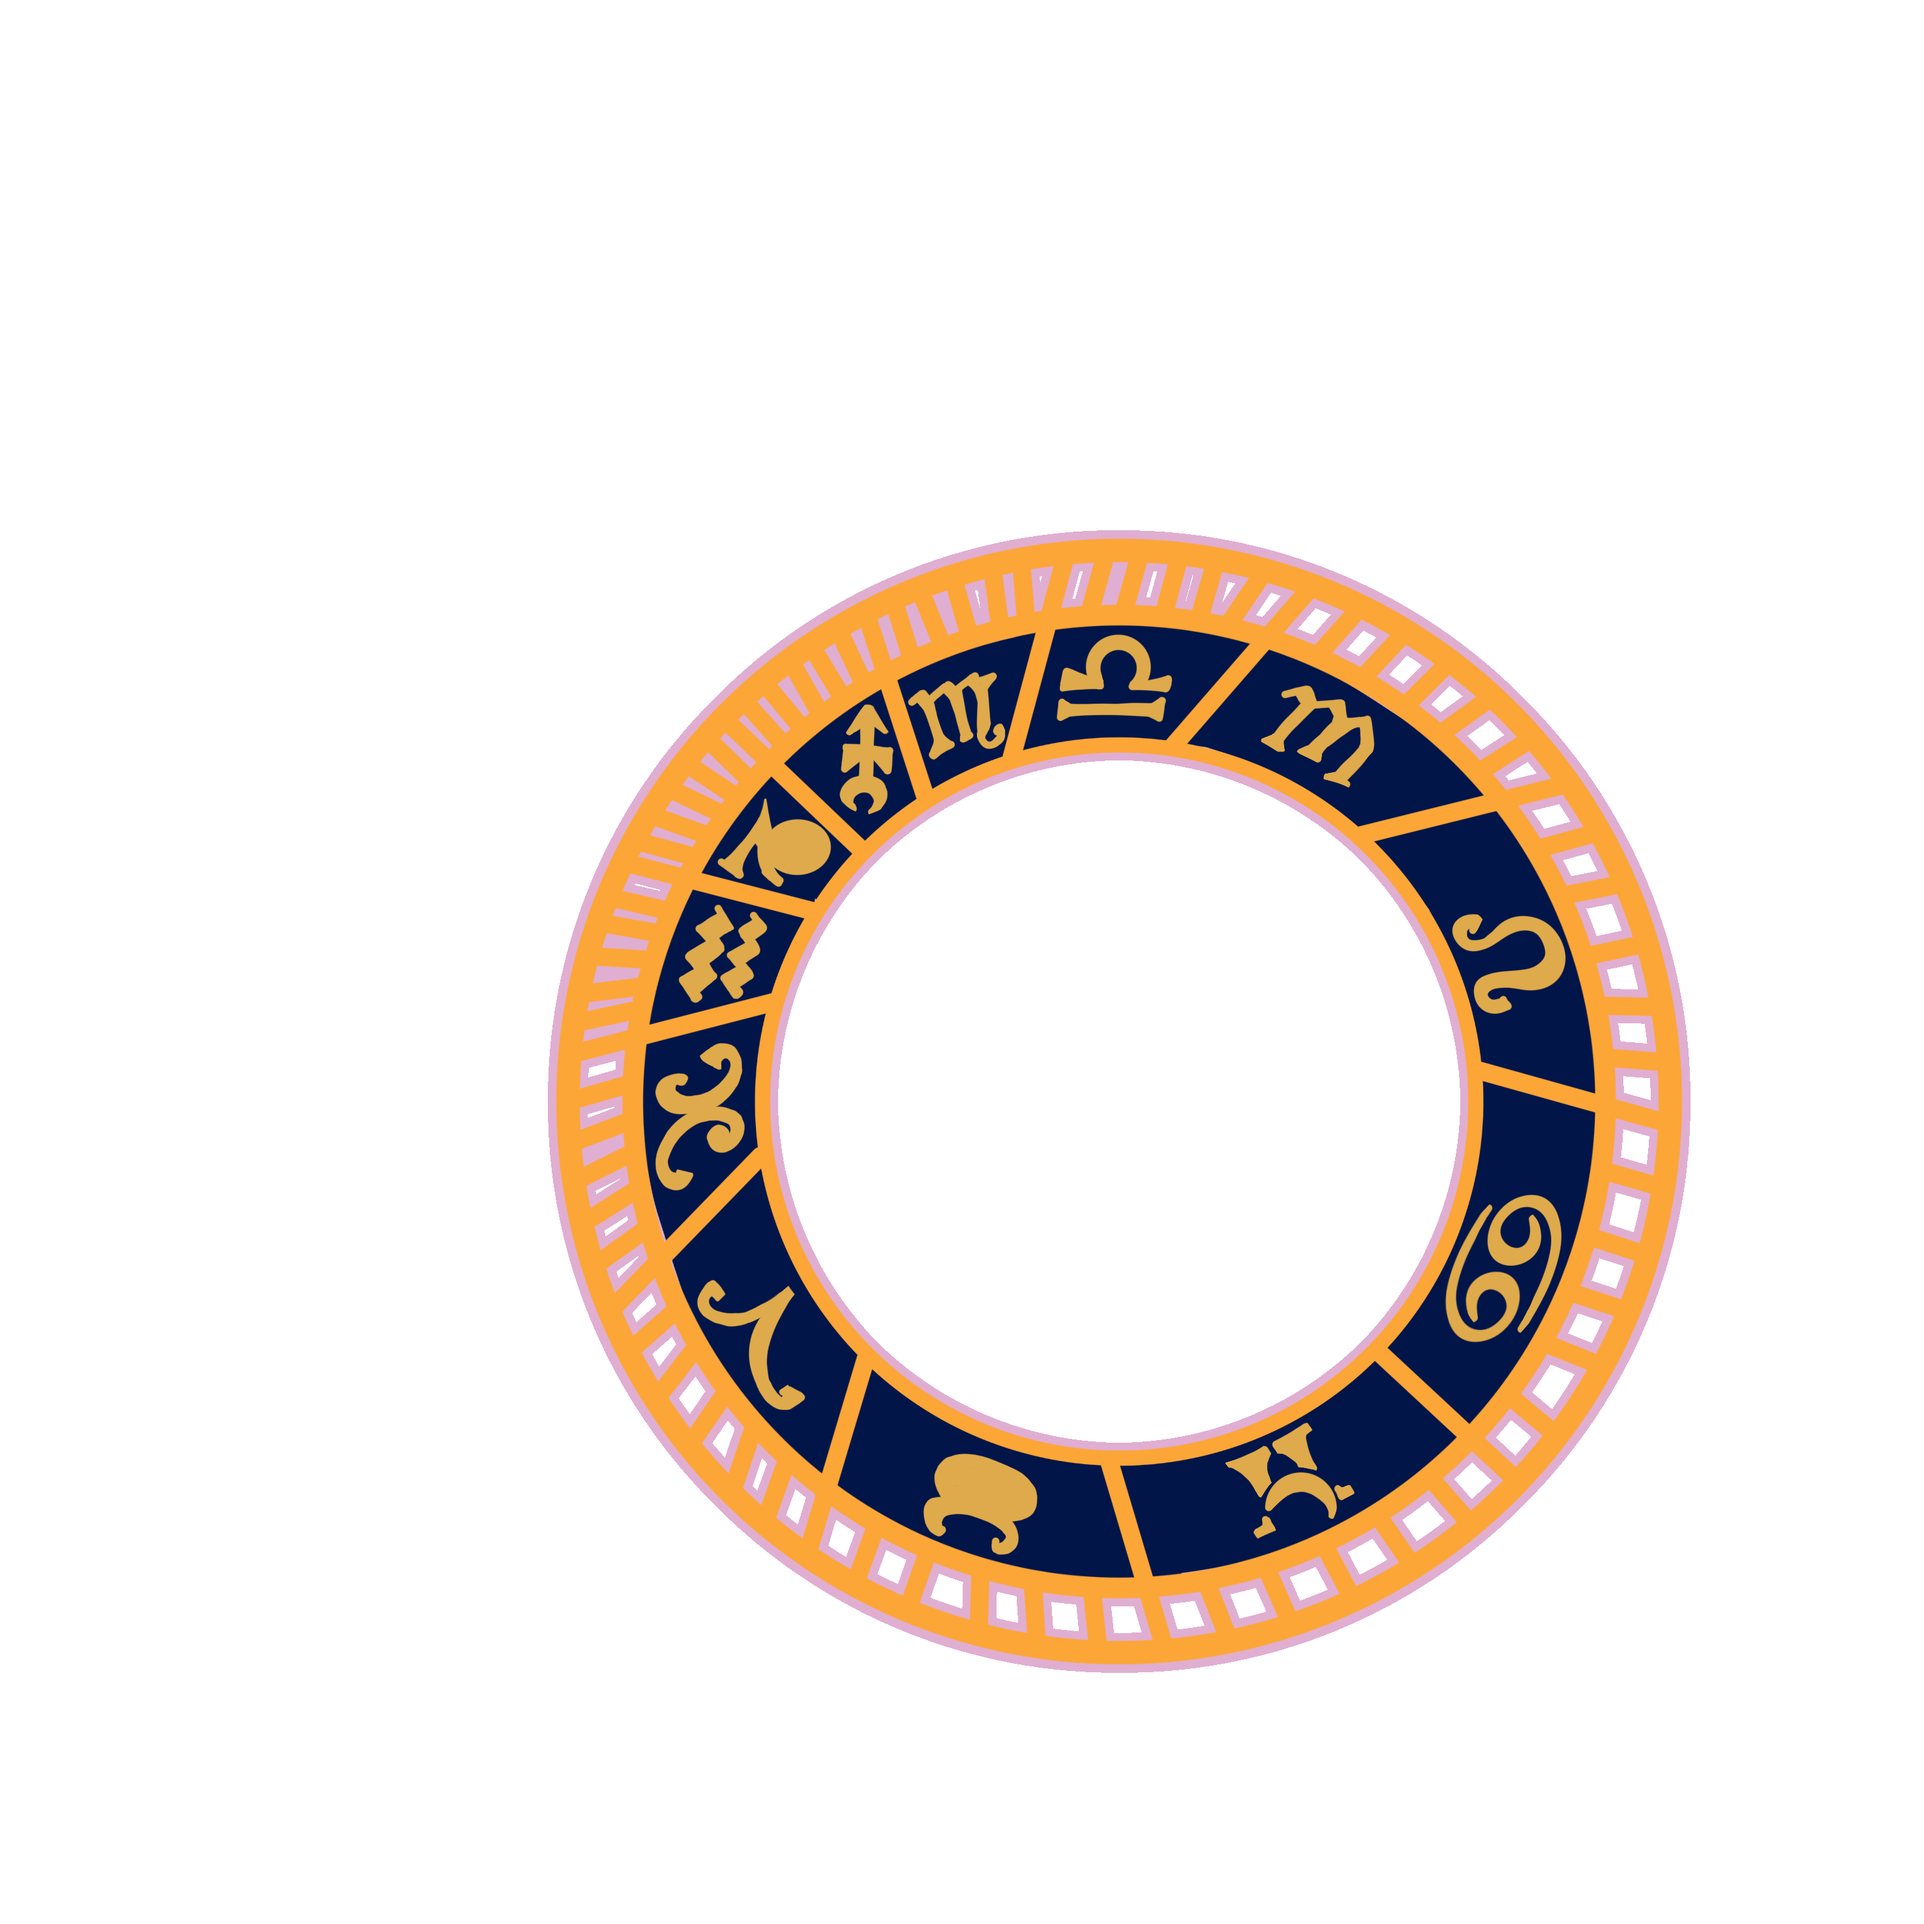
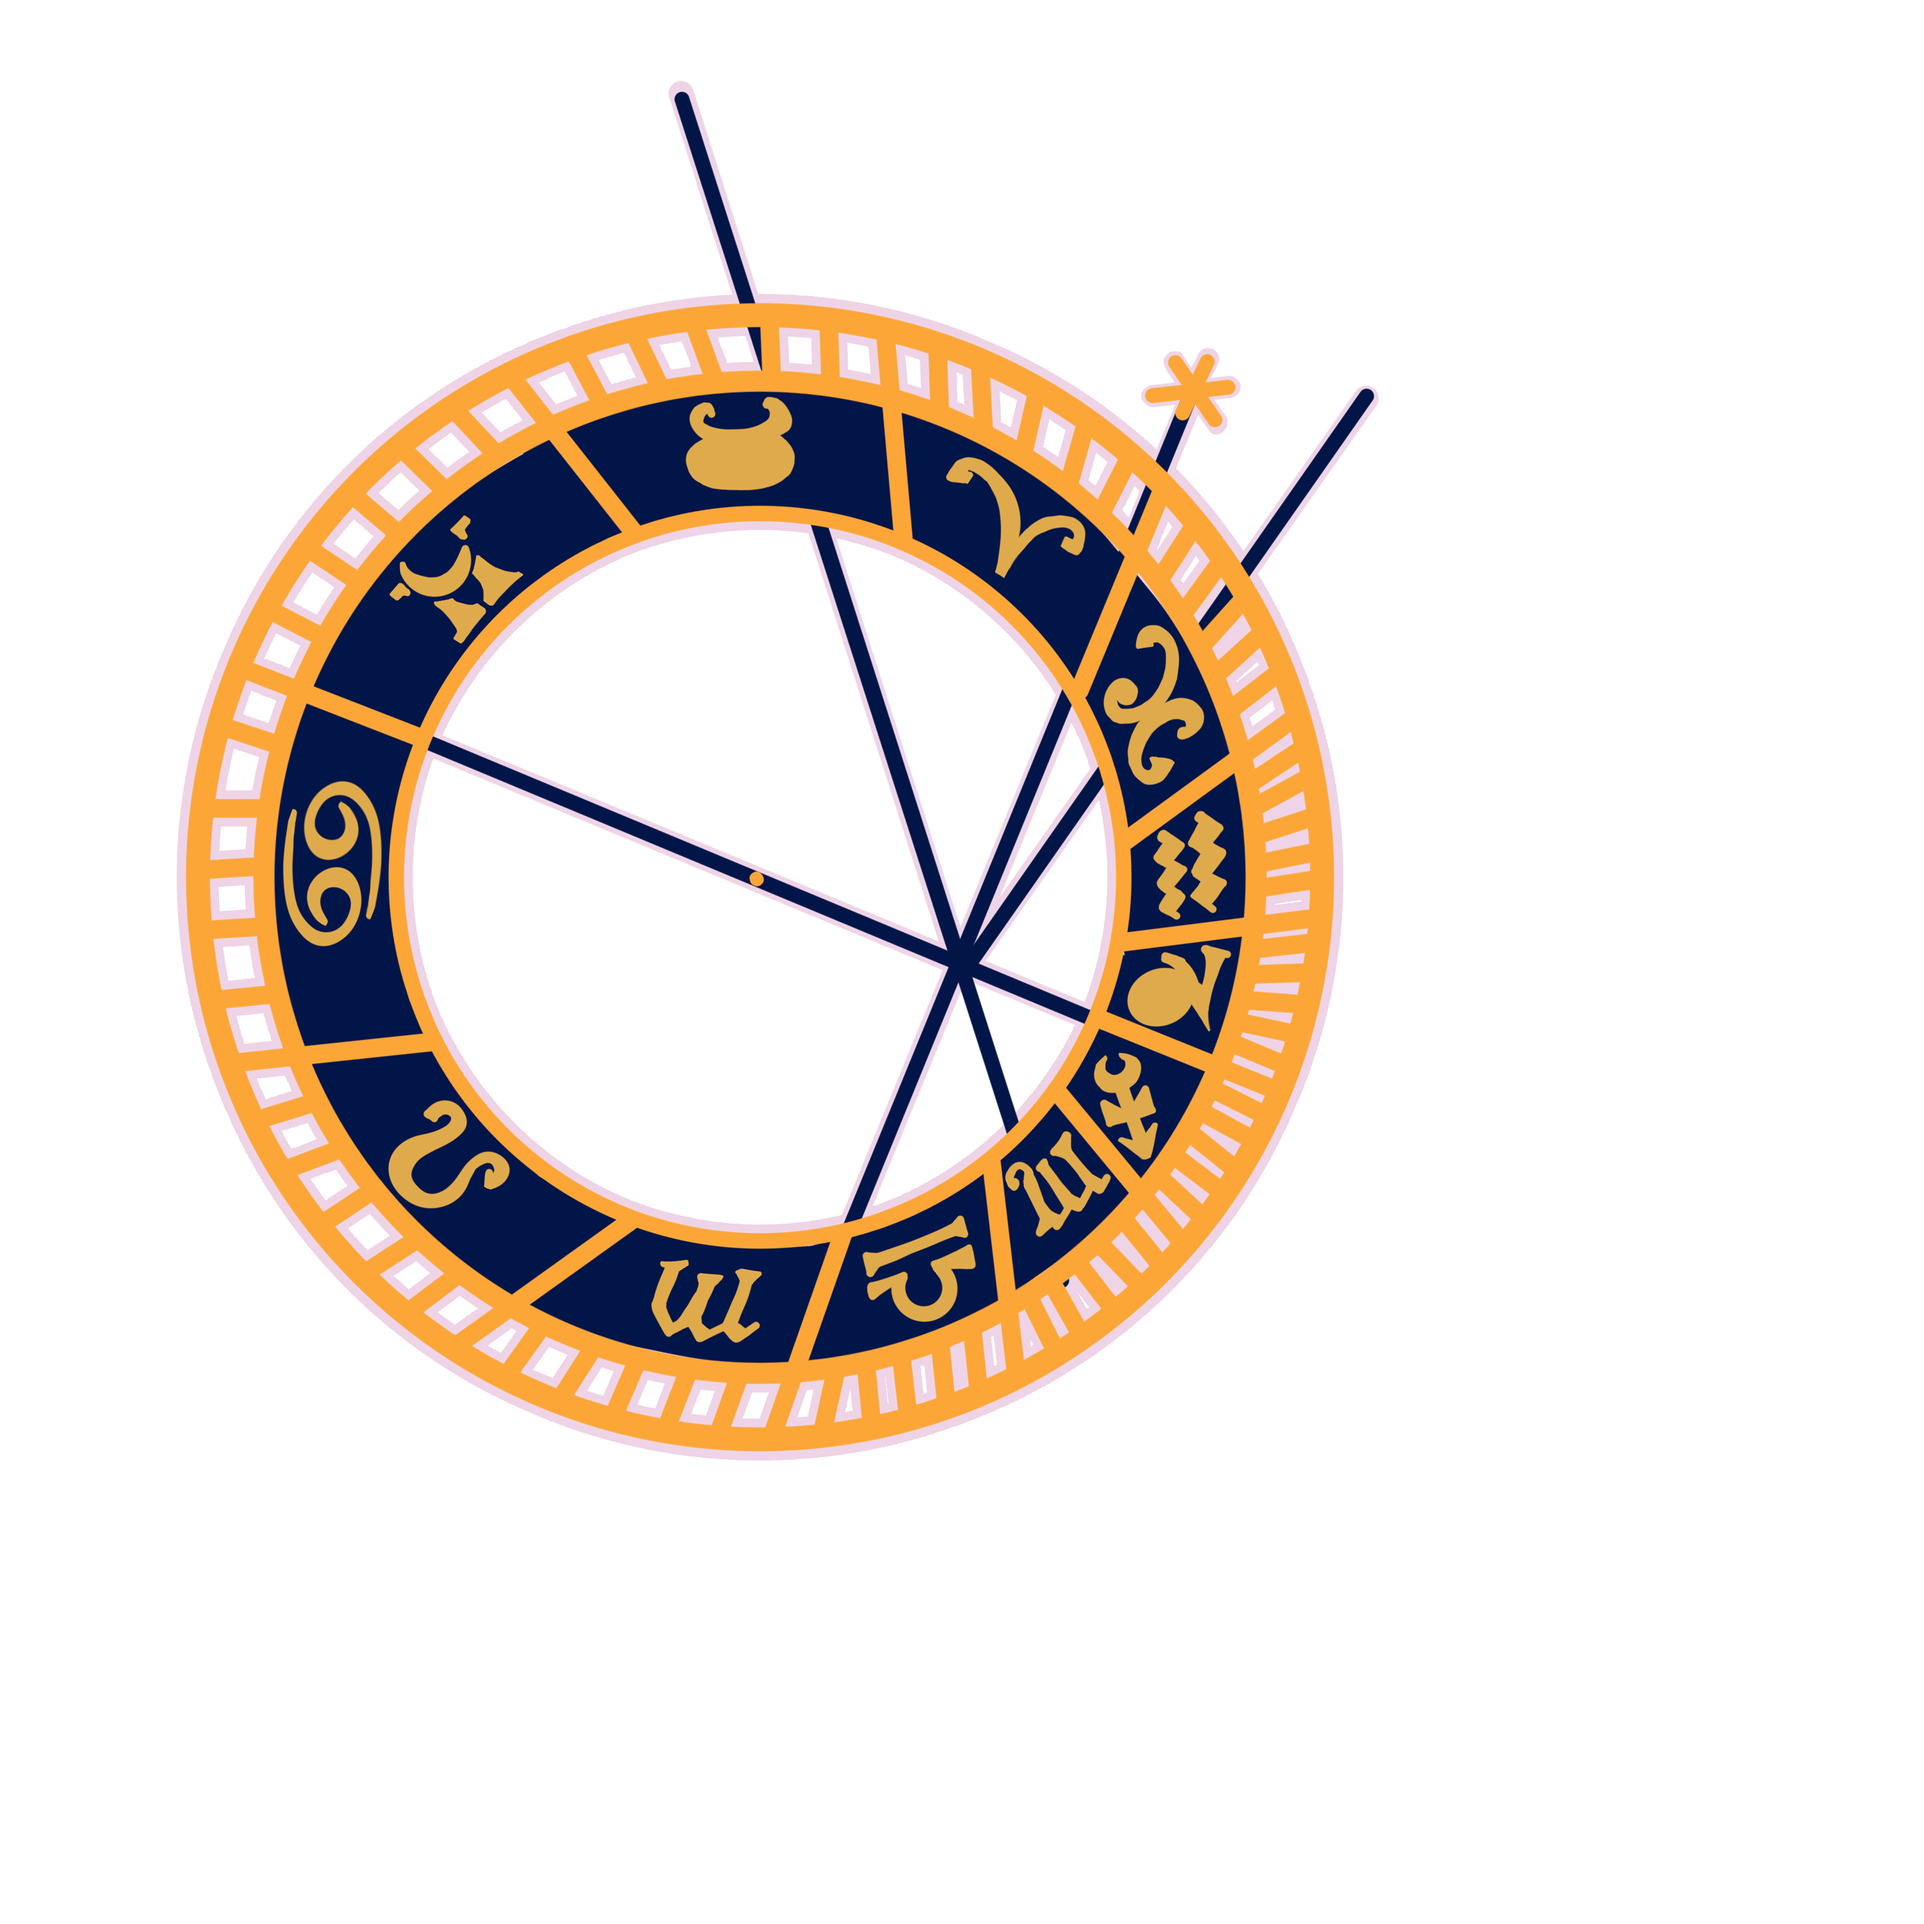
hora y anillo zodiacal

diff --git a/src/js/components/App.jsx b/src/js/components/App.jsx
@@ -1,31 +1,57 @@
-import { format } from "date-fns";
+import { format, set } from "date-fns";
 import React, { useState, useEffect } from "react";
 import AnilloFijo from "./AnilloFijo";
 import AnilloHoraAntigua from "./AnilloHoraAntigua";
 import AnilloZodiacal from "./AnilloZodiacal";
+import "../../styles/styles.css";
 
 const App = () => {
   const [time, setHora] = useState(new Date());
+  const [handRotate, setHandRotate] = useState(0);
+  const [zodiacRotate, setZodiacRotate] = useState(0);
   useEffect(() => {
     const interval = setInterval(() => {
       setHora(new Date());
     }, 1000);
     return () => clearInterval(interval);
   }, []);
+  const _getHandAngle = () => {
+    const hour = time.getHours();
+    const minutes = time.getMinutes();
+    const segs = time.getSeconds();
 
+    const handAngle = (hour + minutes / 60 + segs / 3600) * 15;
+    return handAngle;
+  };
+  const _getZodiacAngle = (date = new Date()) => {
+    const equinox = new Date(date.getFullYear(), 2, 20);
+    const gapDate = date - equinox;
+    const daysSinceEquinox = gapDate / (100 * 60 * 60 * 24);
+
+    const zodiacAngle = (daysSinceEquinox % 365, 25) * (360 / 365.25);
+    return zodiacAngle;
+  };
+  const _getSunAngle = () => {};
+  useEffect(() => {
+    setHandRotate(_getHandAngle());
+    setZodiacRotate(_getZodiacAngle());
+  }, [time]);
   const formatTime = format(time, "HH:mm:ss");
 
   return (
     <>
-      <div className="container-fluid text-center">
+      <div className="container-fluid text-center tablero_main">
         <div className="row">
           <div className="col">
-            <h1>{formatTime}</h1>
+            <h1 className="m-5 text-white">{formatTime}</h1>
             <div className="clock">
-              <AnilloFijo />
+              <AnilloFijo handRotate={handRotate} />
               <div className="rotate">
                 <AnilloHoraAntigua />
-                <AnilloZodiacal />
+                <AnilloZodiacal
+                  zodiacRotate={zodiacRotate}
+                  sunRotate={handRotate}
+                />
               </div>
             </div>
           </div>

diff --git a/src/styles/styles.css b/src/styles/styles.css
@@ -1,0 +1,56 @@
+:root {
+  --clockSize: 1000px;
+}
+
+.tablero_main {
+  position: relative;
+  width: 1500px;
+  height: 1200px;
+  overflow: hidden;
+  margin-top: 50px;
+}
+
+.esfera-fija,
+.aguja-mano {
+  position: relative;
+}
+
+.aguja-mano {
+  z-index: 100;
+  transform: rotate(0deg);
+  top: -8px;
+}
+
+.esfera-fija-img {
+  position: absolute;
+}
+
+img {
+  width: var(--clockSize);
+  height: var(--clockSize);
+}
+.zodiaco {
+  position: absolute;
+  right: -260px;
+}
+.clock {
+  position: relative;
+  margin-top: 50px;
+}
+.rotate {
+  right: 500px;
+  position: relative;
+  top: -1000px;
+}
+.hora-Antigua {
+  position: absolute !important;
+}
+.zodiacal {
+  position: absolute !important;
+}
+.aguja-sol {
+  position: relative;
+  z-index: 200;
+  right: 108px;
+  top: -45px;
+}

diff --git a/src/js/components/AnilloZodiacal.jsx b/src/js/components/AnilloZodiacal.jsx
@@ -1,11 +1,18 @@
 import React from "react";
 import zodiacal from "../../img/Anillo_zodiacal.png";
-import "../../styles/AnilloFijo.css";
+import "../../styles/styles.css";
+import AgujaSol from "./AgujaSol";
 
-const AnilloZodiacal = () => {
+const AnilloZodiacal = ({ zodiacRotate, sunRotate }) => {
   return (
     <>
-      <img className="zodiacal" src={zodiacal} />
+      <div
+        className="zodiaco"
+        style={{ transform: `rotate(${zodiacRotate}deg)` }}
+      >
+        <img className="zodiacal" src={zodiacal} />
+        <AgujaSol sunRotate={sunRotate} />
+      </div>
     </>
   );
 };

diff --git a/src/js/components/AnilloFijo.jsx b/src/js/components/AnilloFijo.jsx
@@ -1,11 +1,15 @@
 import React from "react";
 import esferaFija from "../../img/Esfera_fija.png";
-import "../../styles/AnilloFijo.css";
+import "../../styles/styles.css";
+import AgujaMano from "./AgujaMano";
 
-const AnilloFijo = () => {
+const AnilloFijo = ({ handRotate }) => {
   return (
     <>
-      <img src={esferaFija} />
+      <div className="esfera-fija">
+        <img className="esfera-fija-img" src={esferaFija} />
+        <AgujaMano handRotate={handRotate} />
+      </div>
     </>
   );
 };

diff --git a/src/styles/index.css b/src/styles/index.css
@@ -1,11 +1,5 @@
-/* 
-
-    You can write your own styles here...
-    
-    
-    ...Or you can use the import command to include 
-    other sylesheets into your bunde as well, e.j:
-    
-    import 'relative/path/to/stylesheet.scss';
-
-*/
+body {
+  background-image: url(../img/Background.png);
+  background-repeat: repeat;
+  background-size: 500px 500px;
+}

diff --git a/src/js/components/AgujaMano.jsx b/src/js/components/AgujaMano.jsx
@@ -1,0 +1,16 @@
+import React from "react";
+import agujaMano from "../../img/Aguja_mano.png";
+
+const AgujaMano = ({ handRotate }) => {
+  return (
+    <>
+      <img
+        className="aguja-mano"
+        style={{ transform: `rotate(${handRotate}deg)` }}
+        src={agujaMano}
+      />
+    </>
+  );
+};
+
+export default AgujaMano;

diff --git a/src/js/components/AgujaSol.jsx b/src/js/components/AgujaSol.jsx
@@ -1,0 +1,16 @@
+import React from "react";
+import agujaSol from "../../img/aguja_sol.png";
+
+const AgujaSol = ({ sunRotate }) => {
+  return (
+    <>
+      <img
+        className="aguja-sol"
+        src={agujaSol}
+        style={{ transform: `rotate(${sunRotate}deg)` }}
+      />
+    </>
+  );
+};
+
+export default AgujaSol;

diff --git a/src/js/components/AnilloHoraAntigua.jsx b/src/js/components/AnilloHoraAntigua.jsx
@@ -1,6 +1,6 @@
 import React from "react";
 import anillo from "../../img/Anillo_hora_antigua.png";
-import "../../styles/AnilloFijo.css";
+import "../../styles/styles.css";
 
 const AnilloHoraAntigua = () => {
   return (
